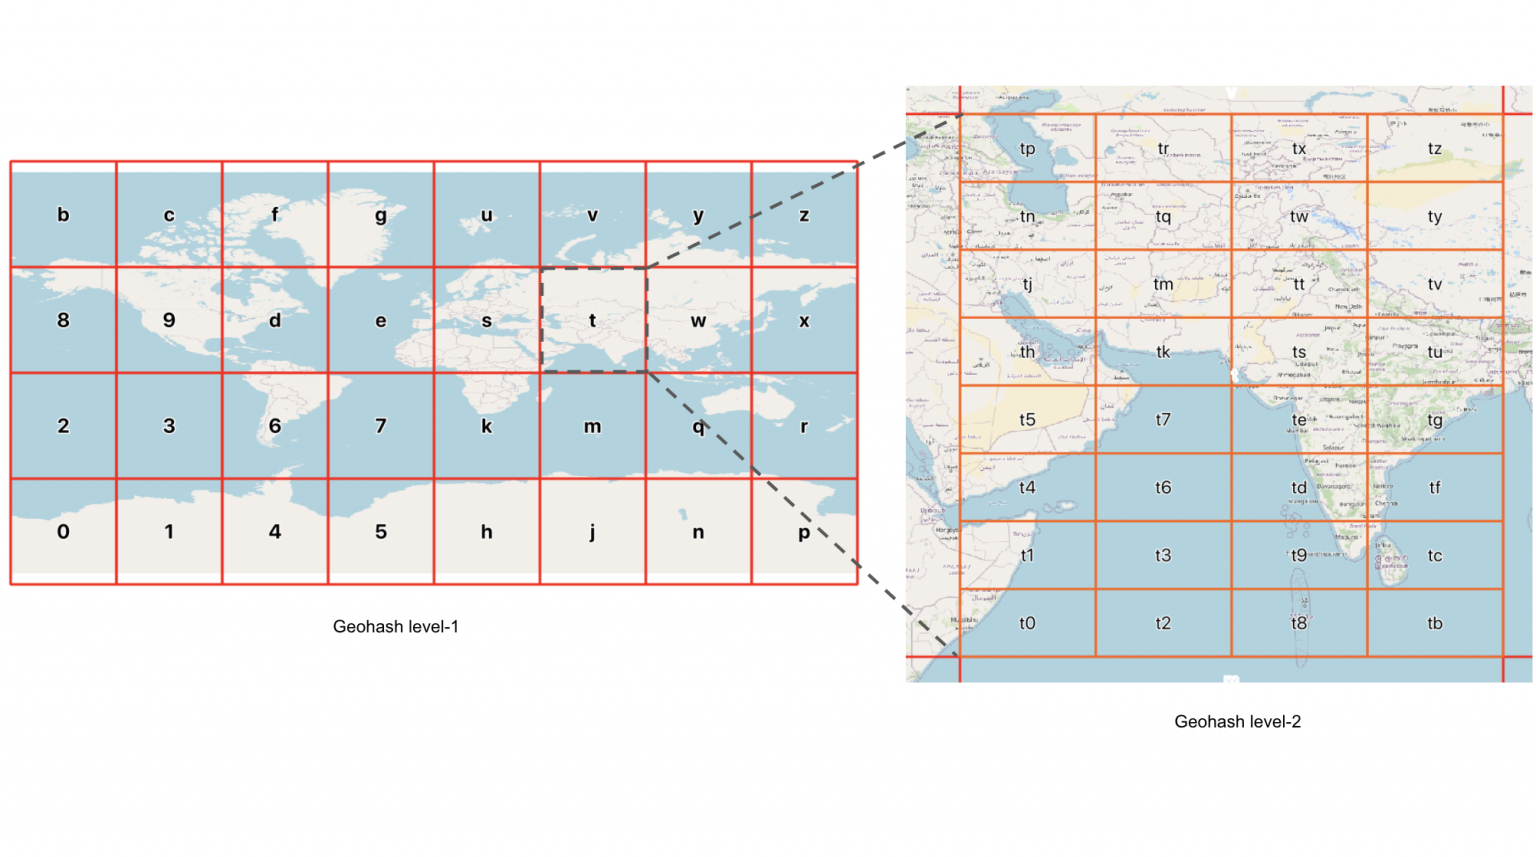
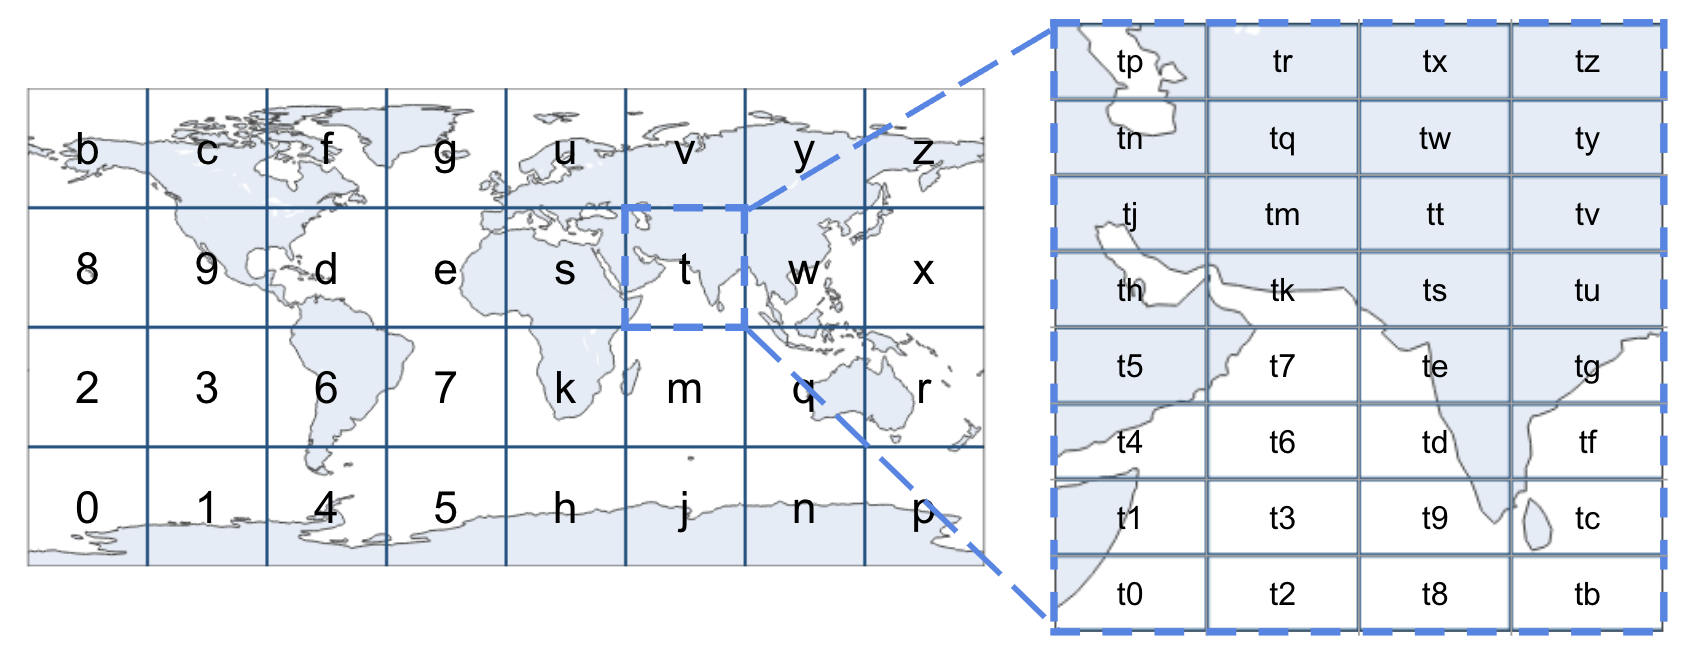
Updated images and code that generates them.

diff --git a/content/posts/geographical-indexing-explained.md b/content/posts/geographical-indexing-explained.md
@@ -33,12 +33,12 @@ Please note that these tools include much functionality beyond basic geographica
 
 ## Three Geographical Indexing Tools
 ### 1. Geohash
-[Geohash, invented in 2008 by Gustavo Niemeyer](https://en.wikipedia.org/wiki/Geohash), is the earliest created geographical indexing tool. It enables its users to map latitude-longitude pairs to Geohash squares of arbitrary user-defined resolution. In Geohash, these squares are uniquely identified by a signature string, such as `"drt3"` (this is the level-4 geohash in which I grew up!).
+[Geohash, invented in 2008 by Gustavo Niemeyer](https://en.wikipedia.org/wiki/Geohash), is the earliest created geographical indexing tool. It enables its users to map latitude-longitude pairs to Geohash squares of arbitrary user-defined resolution. In Geohash, these squares are uniquely identified by a signature string, such as `"drt"`.
 
 <figure class="image" align="center">
-    <img src="/images/my-home-geohash-drt3.png" alt="drawing" width=400/>
+    <img src="/images/my-home-geohash-drt.png" alt="drawing" width=400/>
     <figcaption style="font-style: italic">
-        Geohash generated from online UI offered at <a href="https://www.movable-type.co.uk/scripts/geohash.html">movable-type.co.uk</a>.
+        The level-3 geohash in which I grew up! | Image by Author
     </figcaption>
 </figure>
 
@@ -55,9 +55,9 @@ To map a latitude-longitude pair to a geohash is an elegantly simple algorithm:
 4. Convert every `5` bits from `S` into a Geohash 32-bit alphanumeric character, and return.
 
 <figure class="image" align="center">
-    <img src="/images/geohash-algorithm-explained.png" alt="drawing"/>
+    <img src="/images/geohash-bit-by-bit-computation.png" alt="drawing"/>
     <figcaption style="font-style: italic">
-        Computing a level-1 geohash | Image by Author (base map-image from <a href="https://map-projections.net/single-view/mercator-84">map-projections.net</a>).
+        Computing a level-1 geohash. | Image by Author
     </figcaption>
 </figure>
 
@@ -66,7 +66,7 @@ This algorithm can be iteratively repeated arbitrarily many times, all the way d
 <figure class="image" align="center">
     <img src="/images/geohash-level-1-level-2.png" alt="drawing"/>
     <figcaption style="font-style: italic">
-        Example Geohash Subdivision | Image from <a href="https://www.geospatialworld.net/blogs/polygeohasher-an-optimized-way-to-create-geohashes/">geospatialworld.net</a>.
+        Example geohash subdivision. | Image by Author
     </figcaption>
 </figure>
 
@@ -75,9 +75,9 @@ What's particularly elegant about this algorithm is that, by following this patt
 #### What's a Z-order Curve?
 
 <figure class="image" align="center">
-    <img src="/images/geohash-z-order-curve.jpeg" alt="drawing"/>
+    <img src="/images/geohash-z-order-curve.png" alt="drawing"/>
     <figcaption style="font-style: italic">
-        Z-Order Curve of Level 1 Geohashes | Image from paper <a href="https://ceur-ws.org/Vol-1671/paper4.pdf">"Distributed Moving Objects Database Based on Key-Value Stores", by Hong Van Le</a>.
+        Z-Order curve of level 1 geohashes. | Image by Author
     </figcaption>
 </figure>
 
@@ -111,9 +111,9 @@ S2, among many other things, alleviates the two aforementioned issues with Geoha
 The [Hilbert curve](https://en.wikipedia.org/wiki/Hilbert_curve) is another type of space-filling curve that, rather than using a "zig-zag pattern" like the Z-order curve, uses a gentler "u-shaped pattern".
 
 <figure class="image" align="center">
-    <img src="/images/z-order-curve-vs-hilbert-curve.svg" alt="drawing" width=1500/>
+    <img src="/images/z-order-curve-vs-hilbert-curve.svg" alt="drawing"/>
     <figcaption style="font-style: italic">
-        The Z-Order Curve is longer than the Hilbert Curve to index the same space, at all levels | Image by Author.
+        The Z-Order Curve is longer than the Hilbert Curve to index the same space, at all levels. | Image by Author.
     </figcaption>
 </figure>
 
@@ -122,25 +122,29 @@ By using the Hilbert curve, S2 facilitates that latitude-longitude pairs that ar
 #### The S2 Map Projection
 The second key innovation from S2 is the use of an unfolded-cube projection of the earth rather than Geohash's flat [Mercator](https://en.wikipedia.org/wiki/Mercator_projection)-like projection.
 
-<img src="/images/s2-unfolded-cube-projection.jpg" alt="drawing"/>
+<figure class="image" align="center">
+    <img src="/images/s2-unfolded-cube-projection.jpg" alt="drawing"/>
+    <figcaption style="font-style: italic">
+        S2's cube globe, unfolded. | Image from <a href="https://s2geometry.io/">S2 Geometry Website</a>
+    </figcaption>
+</figure>
 
 Using such a projection significantly reduces variation between cell sizes because, as you move away from the equator, the distance between two longitude lines increases sinusoidally as a function of latitude.
-
-<!-- <img src="/images/longitude-distortion-of-geohash-s2.png" alt="drawing"> -->
 
 #### Getting Started with S2
 
 Google's S2 is written in C++, and can be found as [a repository in Google's Github](https://github.com/google/s2geometry?tab=readme-ov-file). Enabling the Python interface for this package is possible, but requires some non-trivial setup. Alternatively, S2 also has ports to [Kotlin](https://github.com/Enovea/s2-geometry-kotlin), [Java](https://github.com/google/s2-geometry-library-java), and [Golang](https://github.com/golang/geo). There also exists an [open-source Python implementation of S2 on Github not written by Google](https://github.com/aaliddell/s2cell).
 
-- https://s2geometry.io/about/overview
-- https://s2geometry.io/devguide/s2cell_hierarchy
-- eric@rainforesttrust.org
-
 ### H3
 
 Last, and certainly not least, [Uber's H3](https://www.uber.com/en-DE/blog/h3/). The most recently published geographical indexing tool of these three (published in 2018), H3 has two further key innovations that have made it a very popular tool in data science: (1) the use of hexagons in place of squares, and (2) the use of an icosahedron projection onto Earth.
 
-<img src="https://blog.uber-cdn.com/cdn-cgi/image/width=2160,quality=80,onerror=redirect,format=auto/wp-content/uploads/2018/06/Twitter-H3.png" alt="drawing">
+<figure class="image" align="center">
+    <img src="https://blog.uber-cdn.com/cdn-cgi/image/width=2160,quality=80,onerror=redirect,format=auto/wp-content/uploads/2018/06/Twitter-H3.png" alt="drawing"/>
+    <figcaption style="font-style: italic">
+        How Uber sees the world | Image from <a href="https://www.uber.com/en-DE/blog/h3/">Uber Engineering Blog</a>
+    </figcaption>
+</figure>
 
 #### Why Hexagons?
 
@@ -148,8 +152,12 @@ After seeing the elegance of Geohash and S2, you might find yourself asking, "Wh
 
 The hexagon is the [regular polygon](https://en.wikipedia.org/wiki/Regular_polygon) with the most sides that still tessalates with itself. And, if you take such a tessalation of only hexagons, the unique property arises that, for any given hexagon in the tessalation, all of its neighbors are equidistant from its center. This property is critically not the same for triangles or squares (the only other two regular polygons that tessalate with themselves), for whom every element of the tesslation has three and two distinct possible distances from its neighbors, respectively.
 
-<img src="/images/triangles-vs-squares-vs-hexagons.png" alt="drawing">
-<!-- source: https://www.uber.com/en-DE/blog/h3/ -->
+<figure class="image" align="center">
+    <img src="/images/triangles-vs-squares-vs-hexagons.png"/>
+    <figcaption style="font-style: italic">
+        Only the hexagon is equidistant from its neighbors when tesselated with itself. | Image from <a href="https://www.uber.com/en-DE/blog/h3/">Uber Engineering Blog</a>
+    </figcaption>
+</figure>
 
 Having this property that all neighbors are equidistant greatly simplifies any calculus or gradient related operations that Uber or H3's other users might want to perform.
 
@@ -158,30 +166,45 @@ As a brief aside, hexagons are also mother nature's choice of shape -- bees buil
 #### The Icosahedron Projection
 H3's second innovation is the use of an icosahedron projection (as opposed to Geohash's Mercator-like projection and S2's unfolded cube).
 
-<img src="/images/h3-icosahedron.png" alt="drawing">
-<!-- source: https://www.uber.com/en-DE/blog/h3/ -->
+<figure class="image" align="center">
+    <img src="/images/h3-icosahedron.png"/>
+    <figcaption style="font-style: italic">
+        H3's icosahedron, projected onto the globe. | Image from <a href="https://www.uber.com/en-DE/blog/h3/">Uber Engineering Blog</a>
+    </figcaption>
+</figure>
 
 H3 then covers each triangle face of the icosahedron with hexagons, and subdivides hexagons into smaller hexagons from there.
 
-<img src="/images/h3-icosahedron-face.png" alt="drawing">
+<figure class="image" align="center">
+    <img src="/images/h3-icosahedron-face.png" width=300/>
+    <figcaption style="font-style: italic">
+        One face of H3's icosahedron, divided into hexagons. | Image from <a href="https://www.uber.com/en-DE/blog/h3/">Uber Engineering Blog</a>
+    </figcaption>
+</figure>
 
-Further note that, the more faces a projection of the sphere has, the closer it approximates the sphere, and thus, the less spatial distortions it has. With this, H3's hexagons have more consistent sizes than S2's squares, and still more than Geohash's squares.
+Further note that, the more faces a [polyhedron](https://en.wikipedia.org/wiki/Polyhedron) has, the closer it approximates the sphere, and thus, the less spatial distortions its projection onto a sphere has. With this, H3's hexagons have more consistent sizes than S2's squares, and still more than Geohash's squares.
 
 #### H3's Sacrifices
 At this point, you might be wondering -- what about a space-filling curve? What about subdividing hexagons into smaller hexagons? Well, there is no such thing as the perfect software architecture; only the right one. And in order to achieve such hexagonal elegance, Uber had to make a few sacrifices.
 
 First: one drawback of hexagons in comparison with squares, is that hexagons don't quite as cleanly subdivide into other hexagons.
-<img src="/images/h3-hexagon-subdivisions.png" alt="drawing">
+
+<figure class="image" align="center">
+    <img src="/images/h3-hexagon-subdivisions.png" alt="drawing">
+    <figcaption style="font-style: italic">
+        Subdividing hexagons in H3 leaves a little bit to be desired. | Image from <a href="https://www.uber.com/en-DE/blog/h3/">Uber Engineering Blog</a>
+    </figcaption>
+</figure>
 
 In H3, one hexagon divides into seven other hexagons, in which the resultant subdivided hexagons sit at a slight angle with respect to the larger containing hexagon. The result of this is that the strict spatial hierarchy discussed above regarding Geohash -- that if a latitude-longitude point is contained in a cell then it is guaranteed to be contained in that cell's parent -- is not maintained in H3.
 
-Furthermore, by its method of subdividing, while H3 does follow a space-filling curve within each face of the icosahedron, it is not followed globally; furthermore, [h3 hexagons' string identifiers use a bitmap that doesn't retain the same parent-child containment like Geohash](https://h3geo.org/docs/core-library/h3Indexing/). For example, while in Geohash `"h356"` is the child of `"h35"`, in H3 `"862830807ffffff"` is the child of `"85283083fffffff"` (https://observablehq.com/@nrabinowitz/h3-indexing-order).
+Furthermore, by its method of subdividing, while H3 does follow a space-filling curve within each face of the icosahedron, it is not followed globally; furthermore, [h3 hexagons' string identifiers use a bitmap that doesn't retain the same parent-child containment like Geohash](https://h3geo.org/docs/core-library/h3Indexing/). For example, while in Geohash `"h356"` is the child of `"h35"`, in H3 `"862830807ffffff"` is the child of `"85283083fffffff"`.
 
 Being the bestagon comes at one final price -- while hexagons might tessalate perfectly with themselves on a flat surface, this doesn't hold on a sphere. To this end, H3's mapping necessitates that a few pentagons -- twelve, to be exact -- be placed at the vertices of the icosahedron. This isn't too bad, however; the H3 team took care to ensure that all twelve pentagons lay over the oceans!
 
 #### Getting Started with H3
 
-H3 is actively maintained by Uber. It can be found [on Uber's Github in its primary C implementation](https://github.com/uber/h3?tab=readme-ov-file); there also exist bindings for [Python](https://github.com/uber/h3-py), [R](https://github.com/scottmmjackson/h3r), and [many other languages](https://h3geo.org/docs/community/bindings/).
+H3 is actively maintained by Uber. It can be found [on Uber's Github in its primary C implementation](https://github.com/uber/h3?tab=readme-ov-file); there also exist bindings for [Python](https://github.com/uber/h3-py), [R](https://github.com/scottmmjackson/h3r), and [many other languages](https://h3geo.org/docs/community/bindings/). It's far more available than S2, but lacks the cross-platform availability of Geohash; if you want to use H3, it's quite easy -- but you'll have to stay in Uber's libraries.
 
 ## When to Use Which Tool?
 
@@ -199,11 +222,11 @@ The following table summarizes the comparison of Geohash, S2, and H3 across all 
 | Guarantees that cells close in lat-lon are close in cell-id                                      | No            | No            | (Not Applicable) |
 | Guarantees that if a latitude longitude pair is in a cell, then it is also in that cell's parent | Yes           | Yes           | No               |
 | Cells ids serve as prefixes to the ids of their child cells                                      | Yes           | No            | No               |
-| Open-source usability                                                                            | High          | Low           | High             |
+| Open-source usability                                                                            | High          | Low           | Medium-High      |
 
-Rather than answer the question of "when to use which" directly, it might be better to explore a few hypothetical scenarios...
+Rather than answer the question of "when to use which" directly, it might be better to explore a scenario...
 
-### Feature Engineering
+### Feature Engineering with Latitude and Longitude
 Imagine you have a dataset with latitude-longitude pairs as predictors, and some other variable as a target... Geohash, S2, and H3 could all help you, depending on the context!
 
 Are you simply trying to generate a sort of "neighborhood ID" categorical variable by indexing each pair to some geospatial cell? Then yes, any of these tools work.
@@ -220,7 +243,11 @@ One charming thing about these three geographical indexing tools is the historic
 Anytime we make a choice, whether it's what to eat for lunch or which geographical indexing tool to use, we inflect our personalities. And as with any such choice, there is hardly ever a 100% correct answer. What's your geographical data problem, and which of these tools might you use to help solve it? Let me know in the comments!
 
 ## References
+- https://s2geometry.io/about/overview
+- https://s2geometry.io/devguide/s2cell_hierarchy
+- eric@rainforesttrust.org
 - https://github.com/uber/h3/discussions/416#discussioncomment-1509642
 - https://www.uber.com/en-DE/blog/h3/
 - https://docs.google.com/spreadsheets/d/1YQGOqNeI0zItS4MZYY_OASLfFMIJUOFer2OwQhVapX8/edit#gid=0
 - https://www.youtube.com/watch?v=vGKs-c1nQYU
+- https://observablehq.com/@nrabinowitz/h3-indexing-order
